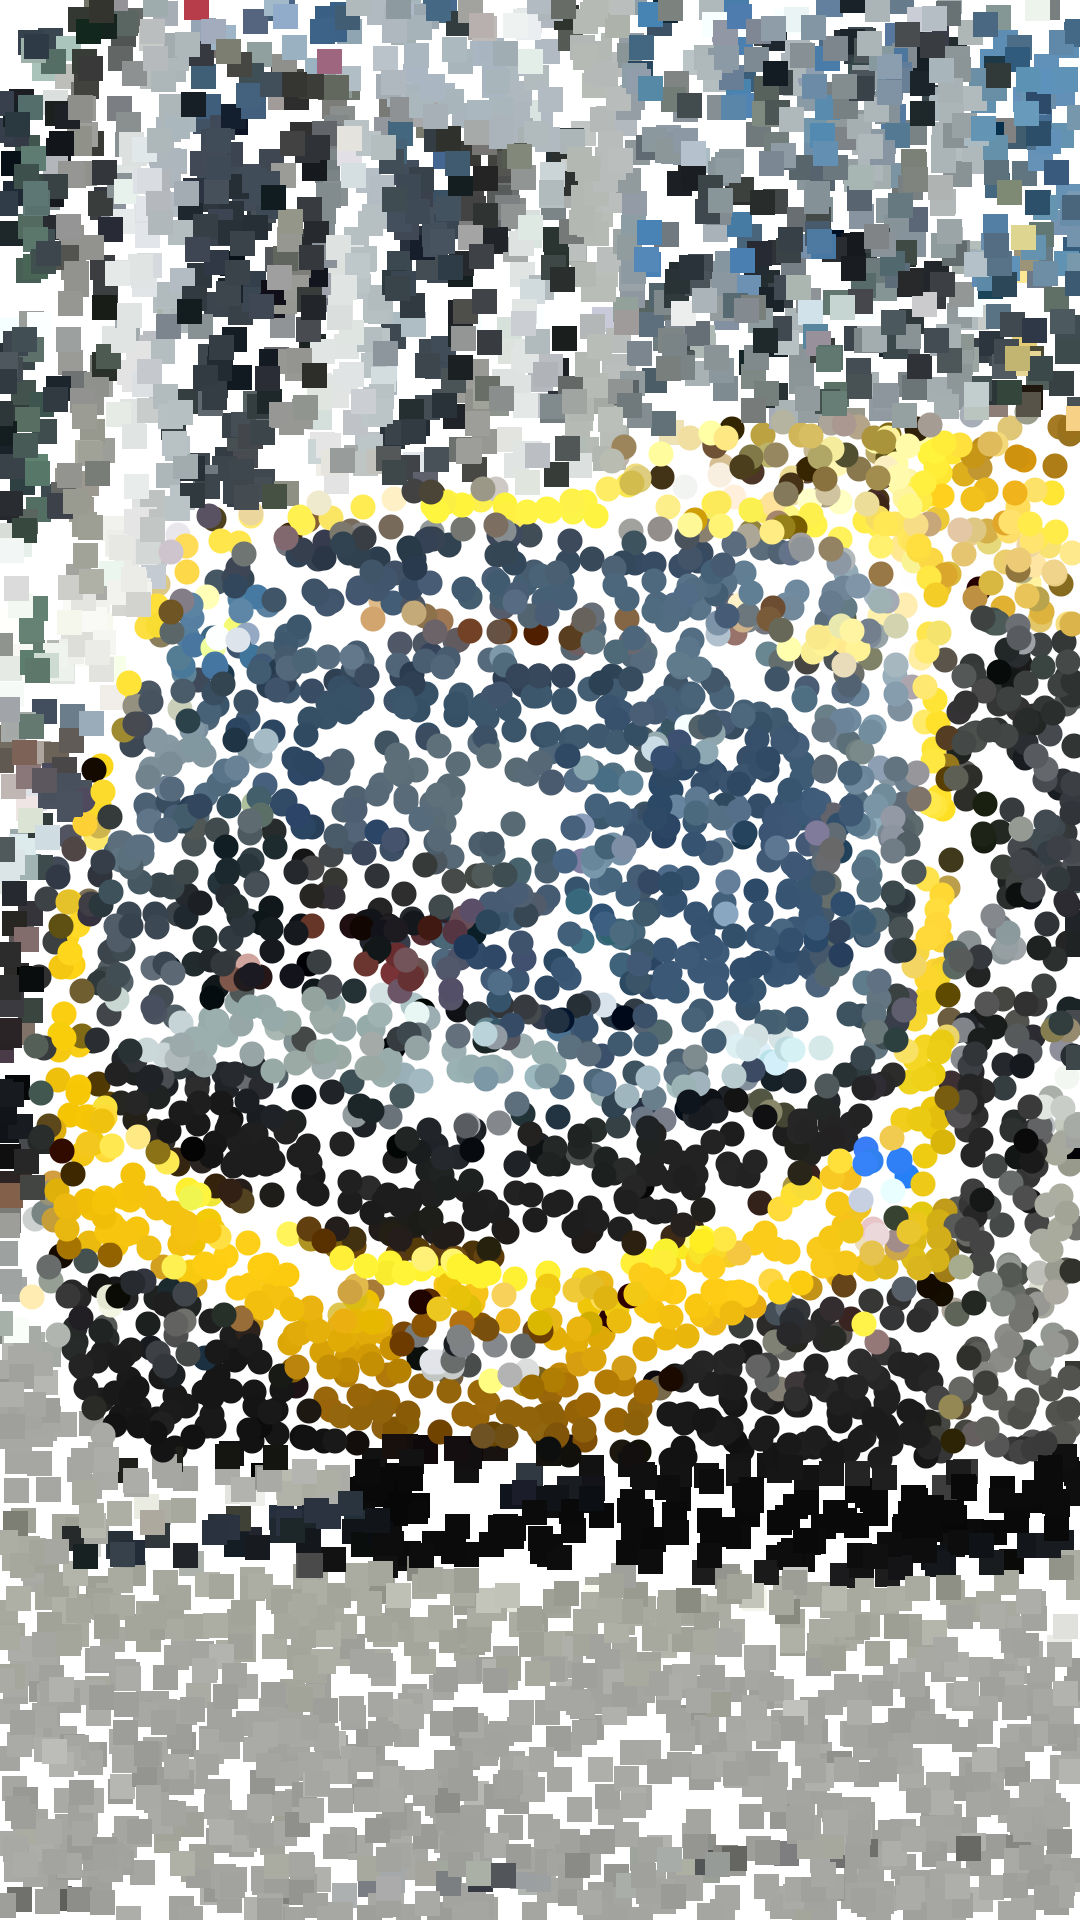
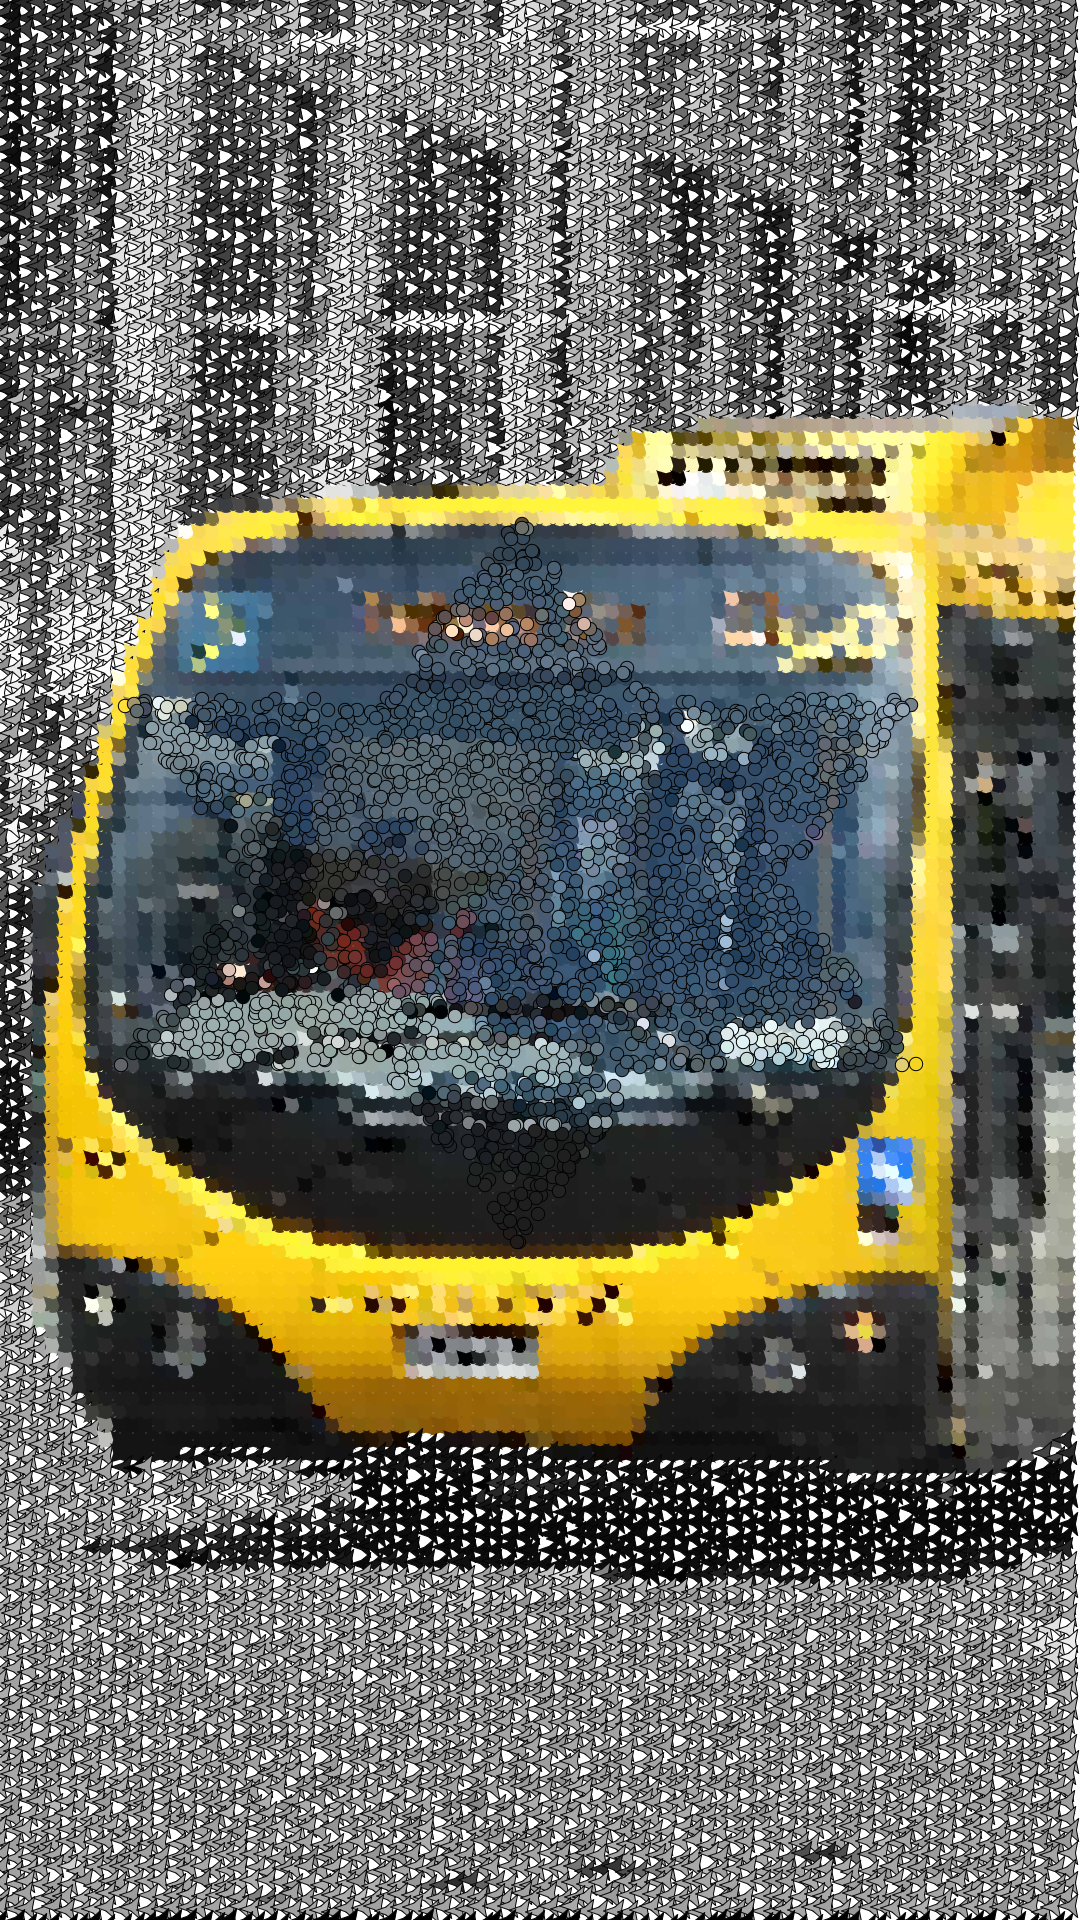
Updated code(2nd script and 2nd mask) and readme

diff --git a/sketch.js b/sketch.js
@@ -1,5 +1,6 @@
 /* Set to true to make final high-resolution version */
 const finalVersion = true;
+var SecondDraw = false;
 
 /* Default versions of variables */
 let elementSpacing = 40;
@@ -8,7 +9,7 @@ let squareSize = 40;
 
 /* Override some variables with high-resolution final version */
 if (finalVersion) {
-	let scale = 3;
+	let scale = 2;
 	elementSpacing = elementSpacing/scale;
 	circleSize = circleSize/scale;
 	squareSize = squareSize/scale;
@@ -17,12 +18,14 @@ if (finalVersion) {
 let sourceImg=null;
 let maskImg=null;
 let renderCounter=0;
+let renderCounterTwo=0;
 var PixelDensity = 100*2;
-var DrawCalls = 50;
+var DrawCalls = 250;
 
 function preload() {
-	sourceImg = loadImage("input_4.jpg");
-	maskImg = loadImage("mask_6.png");
+	sourceImg = loadImage("input_1.jpg");
+	maskImg = loadImage("mask_1.png");
+	maskTwoImg = loadImage("mask_5.png");
 }
 
 function setup () {
@@ -34,6 +37,7 @@ function setup () {
 	background(255);
 	sourceImg.loadPixels();
 	maskImg.loadPixels();
+	console.log("finalVersion is " + finalVersion);
 }
 
 function convertRgbToHsluv(c) {
@@ -48,28 +52,53 @@ function draw () {
 		let dy = floor(random(elementSpacing/2));
 		let pix = sourceImg.get(x, y);
 		let mask = maskImg.get(x, y);
+		// let maskTwo = maskTwoImg.get(x, y);
+		let x2 = floor(random(sourceImg.width));
+		let y2 = floor(random(sourceImg.height));
+		let pix2 = sourceImg.get(x2, y2);
+		let maskTwo = maskTwoImg.get(x2, y2);
+		
 		let halfSize = squareSize/2;
-		if(mask[0] > 128) {
+		if(maskTwo[0] > 128 && SecondDraw == true) {
+			fill(pix2);
+			noStroke();
+			ellipse(x2, y2, squareSize, squareSize);
+			// noStroke();
+			// fill(pix);
+			// star(x, y, squareSize, squareSize, 2); 
+		}
+		if(mask[0] > 128 && SecondDraw == false) {
 			noStroke();
 			fill(pix);
 			star(x, y, squareSize, halfSize, 4); 
-  		}
-  		else {
-	      // add random offsets
-	      x = x + dx;
-	      y = y + dy;
-	      // convert to grayscale (remove color, keep brightness in hsluv colorspace)
-	      let hsluvColor = convertRgbToHsluv(pix);
-	      fillHsluv(0, 0, hsluvColor[2]);
-	      stroke(3);
-	      star(x, y, squareSize, halfSize/1.5, 3);
-	  	}
+		}
+		else {
+			if( SecondDraw == false){
+		      // add random offsets
+		      x = x + dx;
+		      y = y + dy;
+		      // convert to grayscale (remove color, keep brightness in hsluv colorspace)
+		      let hsluvColor = convertRgbToHsluv(pix);
+		      fillHsluv(0, 0, hsluvColor[2]);
+		      stroke(3);
+		      star(x, y, squareSize, halfSize/1.5, 3);
+	  		}
+		}
 	}	
 	renderCounter = renderCounter + 1;
-	if(renderCounter > 1920/elementSpacing) {
-		console.log("Done!")
-		noLoop();
+	if(renderCounter > 1920/elementSpacing && SecondDraw == false) {
+		console.log("First Draw Done!")
+		SecondDraw = true;
+		//noLoop();
 	    // saveBlocksImages();
+	} 
+	if(SecondDraw) {
+		renderCounterTwo = renderCounterTwo + 1; 
+		if(renderCounterTwo > DrawCalls) {
+			console.log("Second Draw Done!")
+			noLoop();
+			// saveBlocksImages();
+		}
 	}
 }
 

diff --git a/README.md b/README.md
@@ -1,3 +1,7 @@
 ## Creative Coding 2: Custom Pixel
 
-The images above are photos of Wellington CBD algorithmically processed with a lightly modified version of the [p5.js Pointillism example](https://p5js.org/examples/image-pointillism.html). The masks for each photo highlight various objects. Replace this text with your own which explains the source of your photos, masking, and applied algorithm.
+At this point I'm still playing with ideas, I quite like the mixture of the grid and the semi randomized grid. I also want to experiment more with the greyscale areas and the overall pixel density. I'm thinking if I change pixel density with different masks the code will need significant refacturing but overall could be worth it; seeing as at this point if the pixel density is to high the saveBlocksImages command crashes.
+
+### Update:
+
+I've now added multiple masks and the ability to use both the fully randomized script and the two grid style scripts in one porject.
